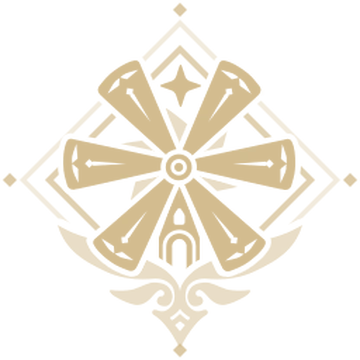
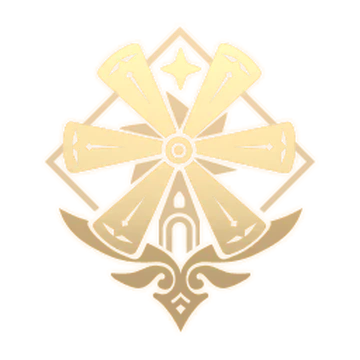
Change img routes and hrLine style

diff --git a/js/modules/utils.js b/js/modules/utils.js
@@ -10,42 +10,42 @@ function getNationImage(nation) {
 }
 const nationImages = {
     mondstadt: {
-        background: '/img/mondstad.jpg',
-        emblem: '/img/mondstadt_emb.webp',
+        background: './img/mondstad.jpg',
+        emblem: './img/mondstadt_emb.webp',
     },
     liyue: {
-        background: '/img/liyue.webp',
-        emblem: '/img/Liyue_Emblem_Night.webp',
+        background: './img/liyue.webp',
+        emblem: './img/liyue_emb.webp',
     },
     inazuma: {
-        background: '/img/inazuma.jpg',
-        emblem: '/img/inazuma_emb2.webp',
+        background: './img/inazuma.jpg',
+        emblem: './img/inazuma_emb.webp',
     },
     sumeru: {
-        background: '/img/sumeru.jpg',
-        emblem: '/img/sumeru_emb2.webp',
+        background: './img/sumeru.jpg',
+        emblem: './img/sumeru_emb.webp',
     },
     fontaine: {
-        background: '/img/fontaine.jpg',
-        emblem: '/img/fontaine_emb.webp',
+        background: './img/fontaine.jpg',
+        emblem: './img/fontaine_emb.webp',
     },
 };
 const nationDefault = {
     background: '',
-    emblem: '/img/domain_emb.webp',
+    emblem: './img/domain_emb.webp',
 };
 
 function getElementsImages(vision) {
     return elementsImages[vision.toLowerCase()];
 }
 const elementsImages = {
-    pyro: '/img/pyro.svg',
-    hydro: '/img/hydro.svg',
-    cryo: '/img/cryo.svg',
-    anemo: '/img/anemo.svg',
-    dendro: '/img/dendro.svg',
-    electro: '/img/electro.svg',
-    geo: '/img/geo.svg',
+    pyro: './img/pyro.svg',
+    hydro: './img/hydro.svg',
+    cryo: './img/cryo.svg',
+    anemo: './img/anemo.svg',
+    dendro: './img/dendro.svg',
+    electro: './img/electro.svg',
+    geo: './img/geo.svg',
 };
 
 export { getNationImage, getIconImage, getElementsImages };

diff --git a/style.css b/style.css
@@ -6,7 +6,6 @@
 
 html {
     font-size: 16px;
-    background-color: #f9fcff;
 }
 
 body {
@@ -67,17 +66,24 @@ img {
 }
 
 .sectionTitleCharacters_line {
-    width: 15%;
-    height: 2px;
-    border: 2px solid #353535;
-    background-image: url('./img/lineaDivisoria.png');
-    background-size: contain;
-    background-repeat: repeat-x;
+    width: 100%; 
+    height: 0;
+    border:2px solid #d3bf4e;
+    border-top: 3px solid transparent;
+    border-bottom: 3px solid transparent;
+}
+
+.sectionTitleCharacters_line--izq{
+    border-right: 60px solid #d3bf4e; 
+}
+
+.sectionTitleCharacters_line--der{
+    border-left: 60px solid #d3bf4e; 
 }
 
 .sectionTitleCharacters_title {
-    margin: 50px;
-    font-size: 2.5em;
+    margin: 18px;
+    font-size: 2em;
 }
 
 /*cards container*/
@@ -277,6 +283,7 @@ img {
 }
 
 @media (min-width: 768px) {
+    
 }
 
 @media (min-width: 1024px) {
@@ -287,5 +294,23 @@ img {
         top: 10%;
         left: 0;
         transform: translateX(-50%);
+    }
+    .sectionTitleCharacters_title {
+        margin: 50px;
+        font-size: 2.5em;
+    }
+    .sectionTitleCharacters_line {
+        width: 100%; 
+        height: 0;
+        border:2px solid #d3bf4e;
+        border-top: 3px solid transparent;
+        border-bottom: 3px solid transparent;
+    }
+    .sectionTitleCharacters_line--izq{
+        border-right: 250px solid #d3bf4e; 
+    }
+    
+    .sectionTitleCharacters_line--der{
+        border-left: 250px solid #d3bf4e; 
     }
 }

diff --git a/index.html b/index.html
@@ -48,9 +48,9 @@
                 --></div>
             </div>
             <div class="sectionTitleCharacters">
-                <hr class="sectionTitleCharacters_line" />
+                <hr class="sectionTitleCharacters_line sectionTitleCharacters_line--izq" />
                 <h2 class="sectionTitleCharacters_title">Characters</h2>
-                <hr class="sectionTitleCharacters_line" />
+                <hr class="sectionTitleCharacters_line sectionTitleCharacters_line--der" />
             </div>
             <div class="cardsContainer" id="cards-container">
                 <!-- Template Card:

diff --git a/js/modules/ui.js b/js/modules/ui.js
@@ -38,7 +38,7 @@ function createCard(character) {
     for (let i = 0; i < character.rarity; i++) {
         const star = document.createElement('img');
         star.classList.add('card__star');
-        star.src = '../img/Icon_1_Star.webp';
+        star.src = './img/Icon_1_Star.webp';
         starsContainer.appendChild(star);
     }
 
